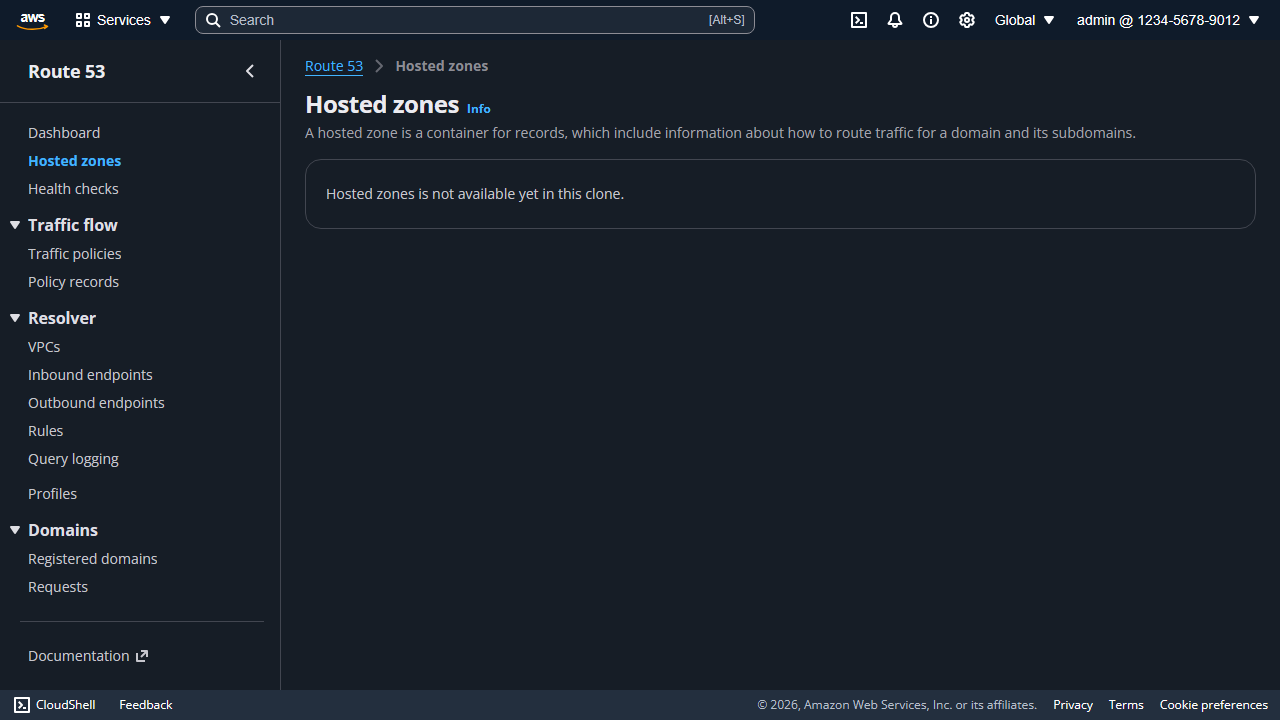
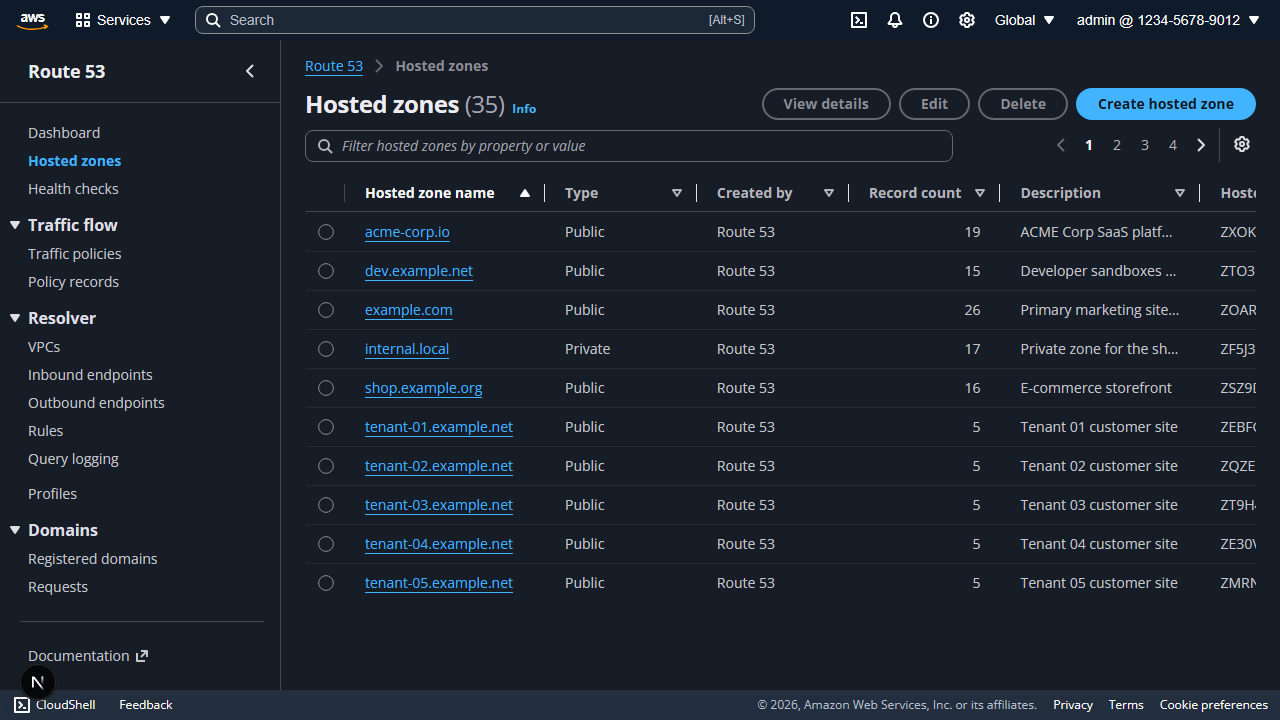
docs: add hosted zones screenshots (list, create, edit, delete, states, dark)

diff --git a/frontend/e2e/screenshots.spec.ts b/frontend/e2e/screenshots.spec.ts
@@ -1,4 +1,5 @@
-import { test } from "@playwright/test";
+import type { Page } from "@playwright/test";
+import { expect, test } from "@playwright/test";
 import path from "node:path";
 import { DEMO, fillLogin, signIn } from "./helpers";
 
@@ -31,5 +32,166 @@ test.describe("documentation screenshots", () => {
     await page.getByTestId("settings-menu-dark").click();
     await page.waitForTimeout(500);
     await page.screenshot({ path: shot("shell-dark") });
+  });
+});
+
+const ZONES_API = /\/api\/hostedzones(\?.*)?$/;
+const rows = (page: Page) => page.getByTestId("zones-table").locator("tbody tr");
+
+async function selectZone(page: Page, name: string) {
+  await rows(page)
+    .filter({ has: page.getByRole("link", { name, exact: true }) })
+    .first()
+    .getByRole("radio")
+    .check({ force: true });
+}
+
+test.describe("hosted zones screenshots", () => {
+  test.skip(!enabled, "set SCREENSHOTS=1 to capture");
+
+  test.beforeEach(async ({ page }) => {
+    await signIn(page);
+    await expect(rows(page).first()).toBeVisible();
+  });
+
+  test("list", async ({ page }) => {
+    await page.waitForTimeout(300);
+    await page.screenshot({ path: shot("zones-list") });
+  });
+
+  test("list (dark)", async ({ page }) => {
+    await page.getByTestId("settings-menu").click();
+    await page.getByTestId("settings-menu-dark").click();
+    await page.waitForTimeout(500);
+    await page.screenshot({ path: shot("zones-list-dark") });
+  });
+
+  test("list with a filter and page 2", async ({ page }) => {
+    const input = page.getByPlaceholder("Filter hosted zones by property or value");
+    await input.fill("tenant");
+    await input.press("Enter");
+    await expect(page.getByText("30 matches").first()).toBeVisible();
+    await page.getByRole("button", { name: "Page 2 of all pages" }).click();
+    await expect(rows(page).first()).toContainText("tenant-11");
+    await page.waitForTimeout(300);
+    await page.screenshot({ path: shot("zones-list-filtered") });
+  });
+
+  test("no-match state", async ({ page }) => {
+    const input = page.getByPlaceholder("Filter hosted zones by property or value");
+    await input.fill("no-such-zone");
+    await input.press("Enter");
+    await expect(page.getByTestId("zones-no-match")).toBeVisible();
+    await page.waitForTimeout(300);
+    await page.screenshot({ path: shot("zones-no-match") });
+  });
+
+  test("create page (public)", async ({ page }) => {
+    await page.getByTestId("create-zone").click();
+    await page.getByTestId("zone-name").locator("input").fill("example.org");
+    await page
+      .getByTestId("zone-description")
+      .locator("textarea")
+      .fill("Corporate site and e-mail");
+    await page.getByRole("button", { name: "Add new tag" }).click();
+    await page.getByLabel("Tag 1 key").fill("Environment");
+    await page.getByLabel("Tag 1 value").fill("production");
+    await page.waitForTimeout(300);
+    await page.screenshot({ path: shot("zone-create"), fullPage: true });
+  });
+
+  test("create page (private)", async ({ page }) => {
+    await page.goto("/hostedzones/create");
+    await page.getByTestId("zone-name").locator("input").fill("corp.internal");
+    await page.getByRole("radio", { name: "Private hosted zone" }).check();
+    await page.getByTestId("zone-vpc-region").click();
+    await page.getByRole("option", { name: /N\. Virginia/ }).click();
+    await page.getByTestId("zone-vpc-id").click();
+    await page.getByRole("option", { name: /prod-vpc/ }).click();
+    await page.waitForTimeout(300);
+    await page.screenshot({ path: shot("zone-create-private"), fullPage: true });
+  });
+
+  test("create page (duplicate-name error)", async ({ page }) => {
+    await page.goto("/hostedzones/create");
+    await page.getByTestId("zone-name").locator("input").fill("example.com");
+    await page.getByTestId("zone-form-submit").click();
+    await expect(page.getByText("A hosted zone with this name already exists.")).toBeVisible();
+    await page.waitForTimeout(300);
+    await page.screenshot({ path: shot("zone-create-duplicate-error"), fullPage: true });
+  });
+
+  test("edit modal", async ({ page }) => {
+    await selectZone(page, "example.com");
+    await page.getByTestId("edit-zone").click();
+    await expect(page.getByTestId("edit-zone-modal")).toBeVisible();
+    await page.waitForTimeout(400);
+    await page.screenshot({ path: shot("zone-edit-modal") });
+  });
+
+  test("delete modal (blocked)", async ({ page }) => {
+    await selectZone(page, "example.com");
+    await page.getByTestId("delete-zone").click();
+    await expect(page.getByTestId("delete-zone-blocked")).toBeVisible();
+    await page.waitForTimeout(400);
+    await page.screenshot({ path: shot("zone-delete-blocked") });
+  });
+
+  test("delete modal (confirm)", async ({ page }) => {
+    const response = await page.request.post("/api/hostedzones", {
+      data: { name: "screenshot-empty.example", type: "public" },
+    });
+    const zone = (await response.json()) as { id: string };
+    try {
+      await page.reload();
+      const input = page.getByPlaceholder("Filter hosted zones by property or value");
+      await input.fill("screenshot-empty");
+      await input.press("Enter");
+      await selectZone(page, "screenshot-empty.example");
+      await page.getByTestId("delete-zone").click();
+      await page.getByTestId("delete-zone-confirmation").locator("input").fill("delete");
+      await page.waitForTimeout(400);
+      await page.screenshot({ path: shot("zone-delete-confirm") });
+    } finally {
+      await page.request.delete(`/api/hostedzones/${zone.id}?force=true`);
+    }
+  });
+
+  test("zone detail", async ({ page }) => {
+    await selectZone(page, "example.com");
+    await page.getByTestId("view-zone").click();
+    await expect(page.getByRole("heading", { name: "example.com" })).toBeVisible();
+    await page.waitForTimeout(300);
+    await page.screenshot({ path: shot("zone-detail"), fullPage: true });
+  });
+
+  test("empty state", async ({ page }) => {
+    await page.route(ZONES_API, (route) =>
+      route.fulfill({
+        status: 200,
+        contentType: "application/json",
+        body: JSON.stringify({ items: [], total: 0, page: 1, page_size: 10 }),
+      }),
+    );
+    await page.reload();
+    await expect(page.getByTestId("zones-empty")).toBeVisible();
+    await page.waitForTimeout(300);
+    await page.screenshot({ path: shot("zones-empty") });
+  });
+
+  test("error state", async ({ page }) => {
+    await page.route(ZONES_API, (route) =>
+      route.fulfill({
+        status: 500,
+        contentType: "application/json",
+        body: JSON.stringify({
+          error: { code: "InternalError", message: "The hosted zones service is unavailable." },
+        }),
+      }),
+    );
+    await page.reload();
+    await expect(page.getByTestId("zones-error")).toBeVisible();
+    await page.waitForTimeout(300);
+    await page.screenshot({ path: shot("zones-error") });
   });
 });
